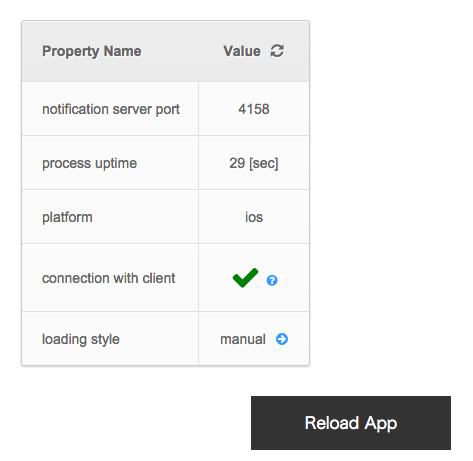
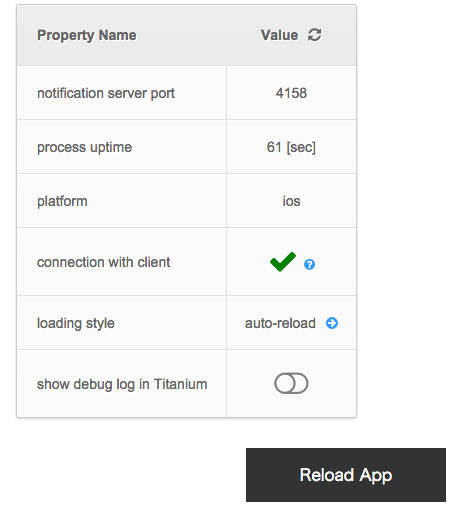
ti debug mode #39

diff --git a/src/server/main-process.js b/src/server/main-process.js
@@ -35,7 +35,7 @@ export default class MainProcess {
      * @param {string} platform platform name (ios|android|mobileweb|windows)
      */
     constructor(projDir, options = {}) {
-        const { fPort, nPort, host, platform } = options
+        const { fPort, nPort, host, platform, tiDebug } = options
 
         /** @type {string} project dir */
         this.projDir = projDir
@@ -44,7 +44,7 @@ export default class MainProcess {
         /** @type {string} platform os name of the Titanium App */
         this.platform = platform
         /** @type {Preferences} */
-        this.prefs = new Preferences()
+        this.prefs = new Preferences({tiDebug})
         /** @type {FileServer} */
         this.fServer = new FileServer(fPort, this.routes)
         /** @type {FileWatcher} */
@@ -173,7 +173,7 @@ export default class MainProcess {
     /**
      * send message to the client of notification server
      * @param {Object} payload
-     * @param {string} payload.event event name. oneof alloy-compilation|alloy-compilation-done|reload|reflect
+     * @param {string} payload.event event name. oneof alloy-compilation|alloy-compilation-done|reload|reflect|debug-mode
      */
     send(payload) {
         console.assert(payload && payload.event)
@@ -228,6 +228,7 @@ export default class MainProcess {
 
             ['/faster-titanium-web-js/main.js', url => responder.webJS()],
 
+
             [/\/loading-style\/[0-9]$/, url => {
                 const newValue = parseInt(url.slice(-1))
                 const expression = Preferences.expressions[newValue]
@@ -236,6 +237,17 @@ export default class MainProcess {
                 }
                 this.prefs.loadStyleNum = newValue
                 return responder.respondJSON({newValue, expression})
+            }],
+
+            ['/ti-debug-mode', url =>
+                responder.respond(this.prefs.tiDebugNum.toString())],
+
+
+            [/\/ti-debug-mode\/[01]$/, url => {
+                const tiDebug = !!parseInt(url.slice(-1))
+                this.prefs.tiDebug = tiDebug
+                this.send({event: 'debug-mode', value: tiDebug})
+                return responder.respondJSON({tiDebug})
             }],
 
             [/^\//, url => // any URL
@@ -256,6 +268,7 @@ export default class MainProcess {
             'platform'                       : this.platform,
             'connection with client'         : this.nServer.connected,
             'loading style'                  : this.prefs.style,
+            'show debug log in Titanium'     : this.prefs.tiDebug,
             //'Reloaded Times'               : this.stats.reloadedTimes
         }
     }

diff --git a/src/titanium/faster-titanium.js b/src/titanium/faster-titanium.js
@@ -2,8 +2,10 @@
 import Socket from './socket'
 import RequireAgent from './require-agent'
 import AlloyCompilationState from '../common/alloy-compilation-state'
+import Http from './http'
 
-const ____ = (v, type = 'log') => console[type]('[FasterTitanium]', v)
+import logger from './logger'
+const ____ = logger('FasterTitanium')
 
 
 export default class FasterTitanium {
@@ -32,7 +34,9 @@ export default class FasterTitanium {
      */
     constructor(g, options = {}) {
 
-        const { fPort, nPort, host = 'localhost' } = options
+        const { fPort, nPort, host = 'localhost', debugMode } = options
+
+        this.fetchDebugModeFromServer(host, fPort)
 
         /** @type {Object} global object of Titanium environment */
         this.global = g
@@ -51,6 +55,18 @@ export default class FasterTitanium {
         this.socket.onConnection(x => ____(`Connection established to ${host}:${nPort}`))
 
         this.registerListeners()
+    }
+
+
+    fetchDebugModeFromServer(host, fPort) {
+        const url = `http://${host}:${fPort}/ti-debug-mode`
+        try {
+            const debugModeStr = Http.get(url, { timeout: 2000 }) // '1' or '0'
+            logger.debugMode = !!Number(debugModeStr) // notice: modifying global variable.
+        }
+        catch (e) {
+            console.error(e)
+        }
     }
 
     /**
@@ -129,6 +145,10 @@ export default class FasterTitanium {
                 break
             case 'reflect':
                 this.reflect(payload)
+                break
+            case 'debug-mode':
+                logger.debugMode = payload.value
+                ____('DEBUG MODE STARTED')
                 break
             default:
                 break

diff --git a/src/hook/faster.js b/src/hook/faster.js
@@ -16,7 +16,7 @@ import chalk from 'chalk'
  * attach cli hooks to titanium CLI
  * this function must be named "init"
  *
- * ti build --faster [--ft-port 4157]
+ * ti build --faster [--ft-port 4157] [--ft-debug]
  * @public
  */
 export function init(logger, config, cli) {
@@ -79,6 +79,7 @@ export function attachFasterFlag(data) {
     const { flags, options } = data.result[1]
 
     flags.faster = { default: false, desc: 'enables faster rebuilding' }
+    flags['ft-debug']= { default: false, desc: 'faster titanium debug mode' }
     options['ft-port'] = { default: 4157, desc: 'port number for faster-titanium http server. If not available, use another open port.' }
 }
 
@@ -102,6 +103,7 @@ export function launchServers(data) {
 
     const { platform,
             'ft-port': port = 4157,
+            'ft-debug': tiDebug = false,
             'project-dir': projectDir } = this.cli.argv
 
     return getPorts(port).then(ports => {
@@ -110,7 +112,8 @@ export function launchServers(data) {
             platform,
             fPort: ports[0],
             nPort: ports[1],
-            host : getAddress()
+            host : getAddress(),
+            tiDebug
         }
         this.ftProcess = new MainProcess(projectDir, optsForServer)
         return this.ftProcess.launchServers()

diff --git a/src/web/components/root.js b/src/web/components/root.js
@@ -40,7 +40,7 @@ export default class Root extends React.Component {
             {this.state.selectionModal ? <SelectionModal /> : ''}
             {this.state.connectionHintModal ? <ConnectionHintModal /> : ''}
             <pre>{this.state.notification}</pre>
-            <InfoTable info={this.state.tableInfo} fetchInfo={::this.fetchInfo} />
+            <InfoTable info={this.state.tableInfo} fetchInfo={::this.fetchInfo} toggleTiDebug={::this.toggleTiDebug} />
             <div className="nice-button"><a onClick={::this.reload}>Reload App</a></div>
         </div>
         )
@@ -59,6 +59,16 @@ export default class Root extends React.Component {
             })
             .then(x => {
                 GlobalState.set('notification', '')
+            })
+    }
+
+
+    toggleTiDebug() {
+        const newMode = ! this.state.tableInfo['show debug log in Titanium']
+        fetch('/ti-debug-mode/' + (newMode ? '1' : 0))
+            .then(res => res.text())
+            .then(text => {
+                GlobalState.set('tableInfo', 'show debug log in Titanium', newMode)
             })
     }
 }

diff --git a/src/titanium/logger.js b/src/titanium/logger.js
@@ -1,0 +1,38 @@
+
+const firstLoaded = new Date().getTime()
+
+const queue = []
+
+export default function logger(name) {
+
+    return function(str, type = 'log') {
+
+        if (!logger.debugMode) return;
+
+        const time = new Date().getTime()
+
+        // first 1000msec, log won't be shown at console,
+        if (time - firstLoaded < 1000) {
+            queue.push([name, str, type])
+            setTimeout(logQueue, 1000)
+        }
+        else {
+            if (queue.length) logQueue()
+            log(name, str, type)
+        }
+
+    }
+}
+
+function log(name, str, type) {
+    const consolelog = console[type] || console.log
+    consolelog(`[${name}]`, str)
+
+}
+
+function logQueue() {
+    while (queue.length) {
+        const args = queue.shift()
+        log.apply(null, args)
+    }
+}

diff --git a/src/web/components/info-table.js b/src/web/components/info-table.js
@@ -71,7 +71,13 @@ export default class InfoTable extends React.Component {
                 <td style={{cursor: 'pointer'}} onClick={::this.showConnectionHintModal}>
                     <Fa icon={v ?'check':'close'} style={{color: v?'green':'red', fontSize: 30}}/>
                     <Fa icon="question-circle" style={{color: '#39f', fontSize: 13, paddingLeft: 6, verticalAlign: '20%'}}/>
-                </td>
+                </td>,
+
+
+            'show debug log in Titanium': v =>
+                <td style={{cursor: 'pointer'}} onClick={::this.props.toggleTiDebug}>
+                    <Fa icon={v ?'toggle-on':'toggle-off'} style={{color: v?'green':'gray', fontSize: 30}}/>
+                </td>,
         }
 
         return modifiers[k] ? modifiers[k](v) : <td>{v}</td>

diff --git a/src/common/alloy-compilation-state.js b/src/common/alloy-compilation-state.js
@@ -1,5 +1,4 @@
 
-const ____ = (v, type = 'log') => console[type]('[FasterTitanium:AlloyCompilationState]', v)
 
 /**
  * Memorize alloy compilation state (start/finish)
@@ -22,7 +21,6 @@ export default class AlloyCompilationState {
 
         const timer = setTimeout(x => {
 
-            ____(`Compilation timed out after ${this.timeout}msec. token=${token}`)
             delete this.tokens[token]
 
         }, this.timeout)

diff --git a/src/titanium/require-agent.js b/src/titanium/require-agent.js
@@ -1,9 +1,13 @@
 
 import Module from './module'
 import Http from './http'
-const ____ = (v, type = 'log') => console[type]('[FasterTitanium:RequireAgent]', v)
+
+import logger from './logger'
+const ____ = logger('FasterTitanium:RequireAgent')
 
 export default class RequireAgent {
+
+
 
     /**
      * @param {function} original (titanium) require function

diff --git a/src/common/preferences.js b/src/common/preferences.js
@@ -33,7 +33,14 @@ export default class Preferences {
 
     constructor(options = {}) {
         this.loadStyleNum = options.loadStyle || AUTO_RELOAD
+        this.tiDebug = !!options.tiDebug
     }
+
+
+    get tiDebugNum() {
+        return Number(this.tiDebug)
+    }
+
 
     get style() {
         return this.constructor.expressions[this.loadStyleNum]

diff --git a/src/titanium/http.js b/src/titanium/http.js
@@ -1,6 +1,4 @@
 
-const ____ = (v) => console.log('[Faster-Titanium:Http]', v)
-
 export default class Http {
 
     static get(url, options = {}) {

diff --git a/README.md b/README.md
@@ -41,6 +41,18 @@ ti build -p ios --faster
 
 That's all.
 
+### debug mode
+
+```bash
+ti build -p ios --faster --ft-debug
+```
+Debug mode shows more logs in Titanium. You can switch this option later via web UI.
+
+If you want to show server debug log, try
+```bash
+DEBUG=faster-titanium:* ti build -p ios --faster
+```
+
 ### Change port number of the web server
 
 ```bash
@@ -68,6 +80,11 @@ Clicking `Value` column of `loading style` enable you to select loading style.
 - **manual**: Do nothing.
 
 Default value is `auto-reload`.
+
+
+#### Toggle debug log option
+You can toggle debug log option by clicking `Value` column of `show debug log in Titanium`.
+
 
 ### CLI
 
